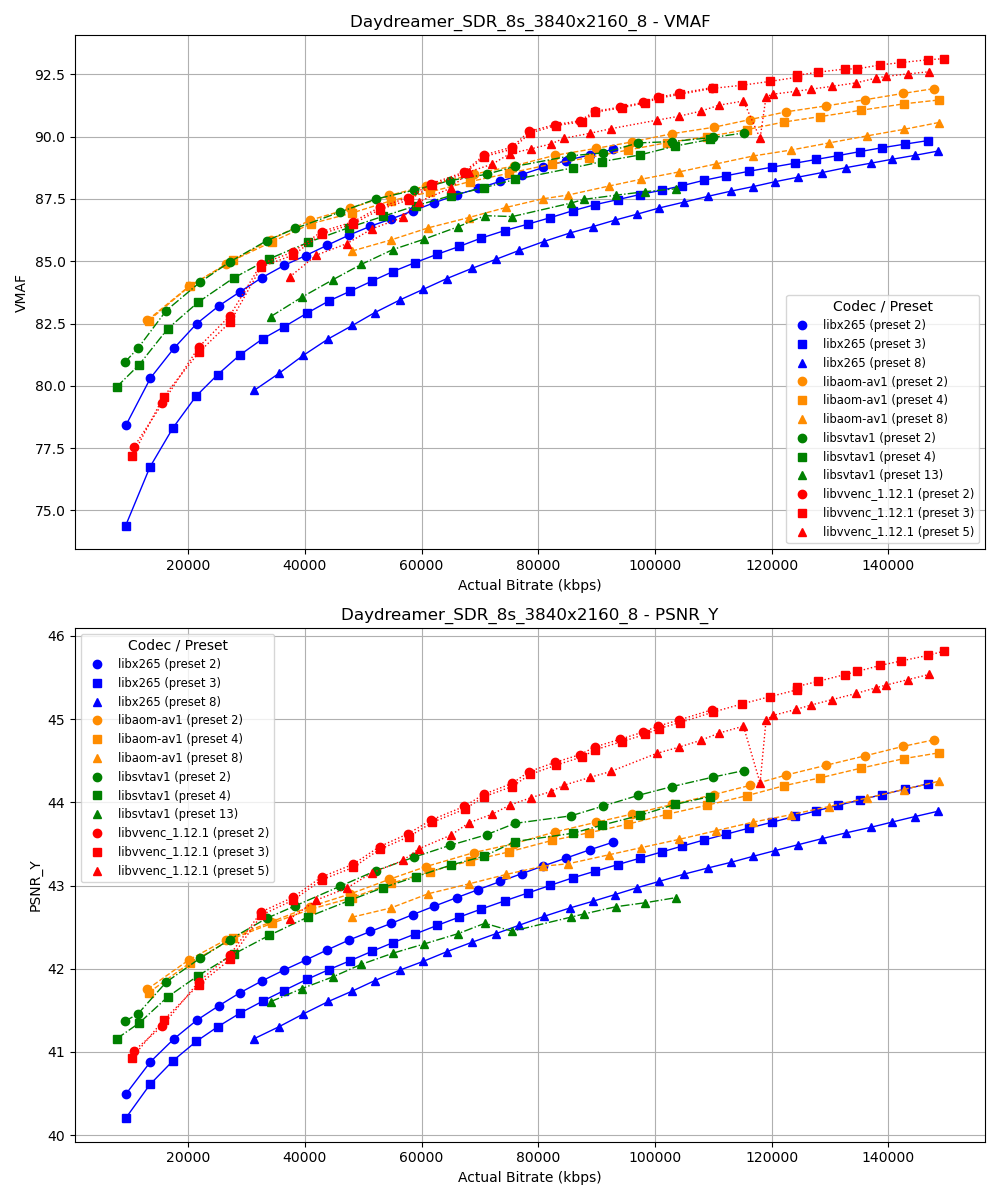
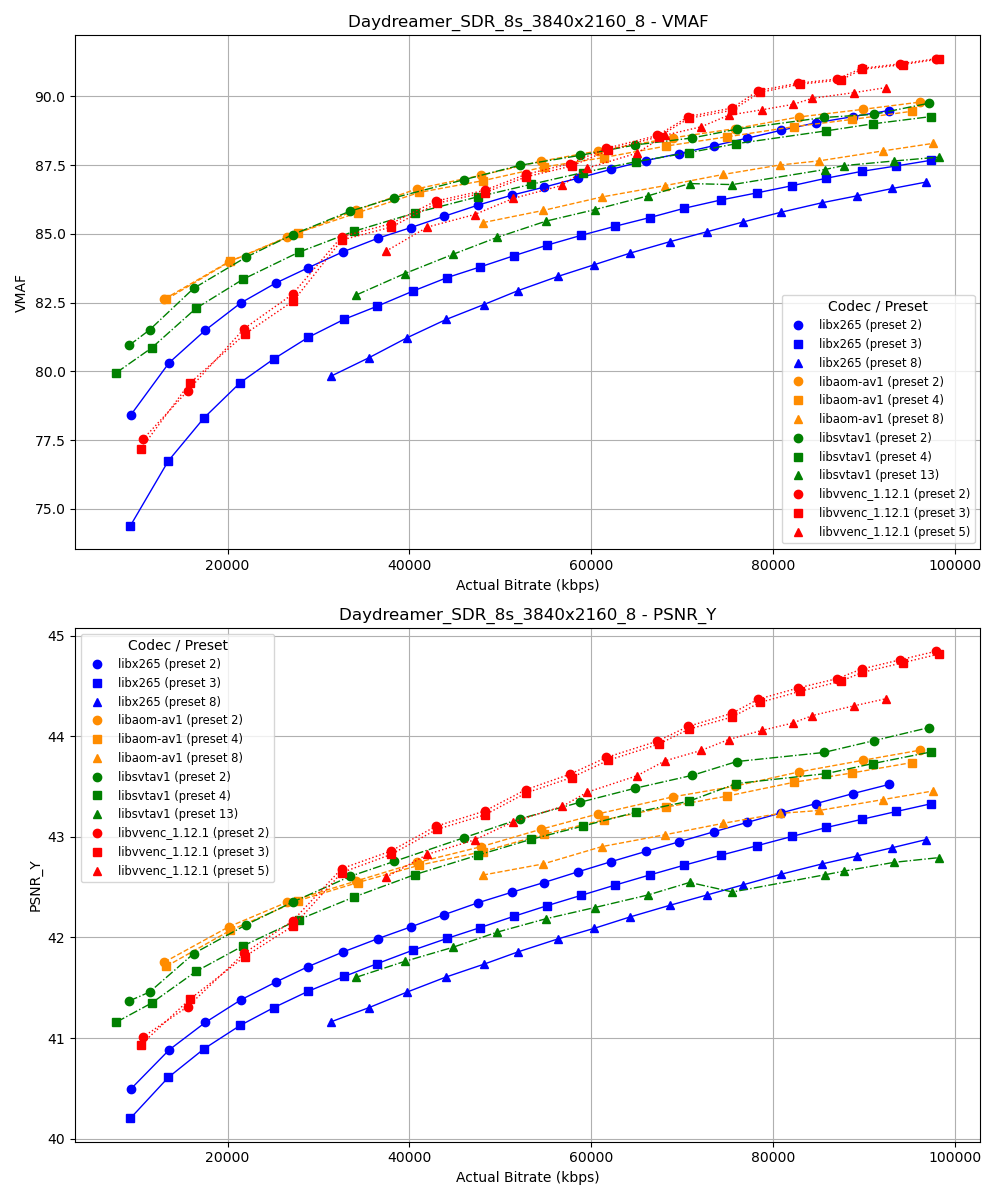
new user_time_graphs script

diff --git a/csv/graphs_user_time.py b/csv/graphs_user_time.py
@@ -1,72 +1,62 @@
 import pandas as pd
 import matplotlib.pyplot as plt
 import os
-import sys
 
-def generate_execution_time_histograms(csv_file):
-    try:
-        data = pd.read_csv(csv_file)
-    except Exception as e:
-        print(f"Errore durante il caricamento del file CSV: {e}")
-        return
+# Caricare il file CSV
+df = pd.read_csv("user_times.csv")
 
-    required_columns = {'seq_name', 'codec', 'preset', 'user'}
-    if not required_columns.issubset(data.columns):
-        print(f"Il file CSV manca di una o più colonne richieste: {required_columns}")
-        return
+# Definizione dei colori specifici per ogni codec
+codec_colors = {
+    "libx265": "blue",
+    "libaom-av1": "darkorange",
+    "libvvenc_1.12.1": "red",
+    "libsvtav1": "green"
+}
 
-    # Filtra i preset 0 e 1
-    data = data[~data['preset'].isin([0, 1])]
+# Creare la cartella per salvare i grafici
+output_dir = "execution_time_graphs"
+os.makedirs(output_dir, exist_ok=True)
 
-    base_output_dir = os.path.join(os.getcwd(), "execution_time_histograms")
-    os.makedirs(base_output_dir, exist_ok=True)
+# Lista univoca delle sequenze video
+unique_sequences = df["seq_name"].unique()
 
-    sequences = data['seq_name'].unique()
+# Creazione dei grafici
+for seq in unique_sequences:
+    subset = df[df["seq_name"] == seq]
+    
+    fig, ax = plt.subplots(figsize=(10, 6))
+    
+    # Creazione delle colonne con altezza basata sul tempo di codifica
+    for _, row in subset.iterrows():
+        ax.bar(row["codec"], row["user"], color=codec_colors.get(row["codec"], "gray"), alpha=0.8)
+    
+    # Impostazioni del grafico
+    ax.set_ylabel("Tempo di codifica (ms)")
+    ax.set_xlabel("Codec")
+    ax.set_title(f"Sequenza: {seq}", fontsize=12)
+    
+    # Aggiunta delle etichette con il tempo di codifica e VMAF sopra le barre
+    max_user = subset["user"].max()
+    for i, row in enumerate(subset.itertuples()):
+        ax.text(row.codec, row.user + max_user * 0.05, f"{row.user:.2f} ms\nVMAF: {row.vmaf:.2f}",
+                ha='center', fontsize=10, bbox=dict(facecolor='white', alpha=0.7), fontweight='bold')
+    
+    # Aggiunta di margine superiore per dare spazio alle etichette
+    ax.set_ylim(0, max_user * 1.3)
+    
+    # Creazione della legenda posizionata esternamente con spazio ridotto
+    handles = [plt.Rectangle((0, 0), 1, 1, color=codec_colors[c]) for c in codec_colors]
+    fig.legend(handles, codec_colors.keys(), title="Codec", loc="center right", bbox_to_anchor=(1.08, 0.5))
+    
+    # Adattare layout per evitare sovrapposizioni
+    plt.tight_layout(rect=[0, 0, 0.9, 1])
+    
+    # Salvare il grafico nella cartella
+    output_path = os.path.join(output_dir, f"{seq.replace(' ', '_')}.png")
+    plt.savefig(output_path)
+    
+    # Chiudere il grafico per liberare memoria
+    plt.close(fig)
 
-    for seq in sequences:
-        subset = data[data['seq_name'] == seq]
-
-        avg_execution_time = subset.groupby(['codec', 'preset'])['user'].mean().reset_index()
-
-        if not avg_execution_time.empty:
-            plt.figure(figsize=(10, 6))
-
-            codecs = avg_execution_time['codec'].unique()
-            presets = sorted(avg_execution_time['preset'].unique())
-
-            bar_width = 0.2
-            positions = range(len(presets))
-
-            for idx, codec in enumerate(codecs):
-                codec_data = avg_execution_time[avg_execution_time['codec'] == codec]
-                times = [codec_data[codec_data['preset'] == p]['user'].values[0] if p in codec_data['preset'].values else None for p in presets]
-                bar_positions = [p + idx * bar_width for p in positions]
-                
-                bars = plt.bar(bar_positions, [t if t is not None else 0 for t in times], bar_width, label=codec)
-                
-                # Aggiunta delle etichette sopra ogni barra con il valore del preset solo se la barra non è zero
-                for bar, preset, time in zip(bars, presets, times):
-                    if time is not None and time > 0:
-                        plt.text(bar.get_x() + bar.get_width()/2, 0, preset, ha='center', va='bottom', fontsize=9)
-
-            plt.title(f"Average Execution Time - {seq}")
-            plt.xlabel("Preset")
-            plt.ylabel("Average Execution Time (s)")
-            plt.xticks([p + (bar_width * len(codecs)) / 2 for p in positions], presets)
-            plt.legend(title="Codec", fontsize='small')
-            plt.grid(axis='y', linestyle='--', alpha=0.7)
-
-            plot_file = os.path.join(base_output_dir, f"{seq}_execution_time_histogram.png")
-            plt.savefig(plot_file, bbox_inches='tight')
-            plt.close()
-
-    print(f"Gli istogrammi dei tempi di esecuzione medi sono stati salvati nella directory: {base_output_dir}")
-
-if __name__ == "__main__":
-    if len(sys.argv) != 2:
-        print("Utilizzo: python3 generate_execution_time_histograms.py <file_csv>")
-    else:
-        csv_file = sys.argv[1]
-        generate_execution_time_histograms(csv_file)
 
 

diff --git a/csv/graphs_user_time_old.py b/csv/graphs_user_time_old.py
@@ -1,0 +1,72 @@
+import pandas as pd
+import matplotlib.pyplot as plt
+import os
+import sys
+
+def generate_execution_time_histograms(csv_file):
+    try:
+        data = pd.read_csv(csv_file)
+    except Exception as e:
+        print(f"Errore durante il caricamento del file CSV: {e}")
+        return
+
+    required_columns = {'seq_name', 'codec', 'preset', 'user'}
+    if not required_columns.issubset(data.columns):
+        print(f"Il file CSV manca di una o più colonne richieste: {required_columns}")
+        return
+
+    # Filtra i preset 0 e 1
+    data = data[~data['preset'].isin([0, 1])]
+
+    base_output_dir = os.path.join(os.getcwd(), "execution_time_histograms")
+    os.makedirs(base_output_dir, exist_ok=True)
+
+    sequences = data['seq_name'].unique()
+
+    for seq in sequences:
+        subset = data[data['seq_name'] == seq]
+
+        avg_execution_time = subset.groupby(['codec', 'preset'])['user'].mean().reset_index()
+
+        if not avg_execution_time.empty:
+            plt.figure(figsize=(10, 6))
+
+            codecs = avg_execution_time['codec'].unique()
+            presets = sorted(avg_execution_time['preset'].unique())
+
+            bar_width = 0.2
+            positions = range(len(presets))
+
+            for idx, codec in enumerate(codecs):
+                codec_data = avg_execution_time[avg_execution_time['codec'] == codec]
+                times = [codec_data[codec_data['preset'] == p]['user'].values[0] if p in codec_data['preset'].values else None for p in presets]
+                bar_positions = [p + idx * bar_width for p in positions]
+                
+                bars = plt.bar(bar_positions, [t if t is not None else 0 for t in times], bar_width, label=codec)
+                
+                # Aggiunta delle etichette sopra ogni barra con il valore del preset solo se la barra non è zero
+                for bar, preset, time in zip(bars, presets, times):
+                    if time is not None and time > 0:
+                        plt.text(bar.get_x() + bar.get_width()/2, 0, preset, ha='center', va='bottom', fontsize=9)
+
+            plt.title(f"Average Execution Time - {seq}")
+            plt.xlabel("Preset")
+            plt.ylabel("Average Execution Time (s)")
+            plt.xticks([p + (bar_width * len(codecs)) / 2 for p in positions], presets)
+            plt.legend(title="Codec", fontsize='small')
+            plt.grid(axis='y', linestyle='--', alpha=0.7)
+
+            plot_file = os.path.join(base_output_dir, f"{seq}_execution_time_histogram.png")
+            plt.savefig(plot_file, bbox_inches='tight')
+            plt.close()
+
+    print(f"Gli istogrammi dei tempi di esecuzione medi sono stati salvati nella directory: {base_output_dir}")
+
+if __name__ == "__main__":
+    if len(sys.argv) != 2:
+        print("Utilizzo: python3 generate_execution_time_histograms.py <file_csv>")
+    else:
+        csv_file = sys.argv[1]
+        generate_execution_time_histograms(csv_file)
+
+

diff --git a/csv/csv6/filter_useless.py b/csv/csv6/filter_useless.py
@@ -15,8 +15,12 @@ df["vmaf"] = pd.to_numeric(df["vmaf"], errors="coerce")
 # 1. Eliminare le righe per la sequenza "Daydreamer" che hanno actual_bitrate superiore a 150000
 df = df[~((df["seq_name"] == "Daydreamer_SDR_8s_3840x2160_8") & (df["actual_bitrate"] > 150000))]
 
+
 # 2. Eliminare le righe per "vegetables_tuil_4k" con vmaf < 60 e actual_bitrate > 10000
 df = df[~((df["seq_name"] == "vegetables_tuil_4k") & ((df["vmaf"] < 60) | (df["actual_bitrate"] > 10000)))]
+
+# 3. Eliminare le righe per "water_netflix_4k" con actual_bitrate > 100000
+df = df[~(df["actual_bitrate"] > 100000)]
 
 # Salvare il file filtrato
 df.to_csv(output_file, index=False, quoting=1)
